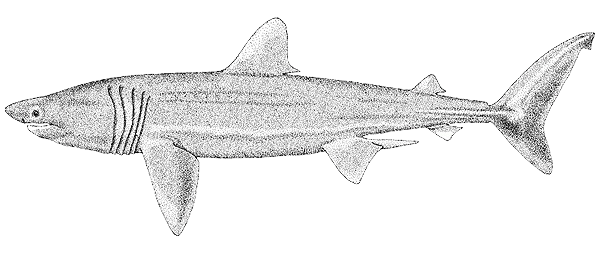
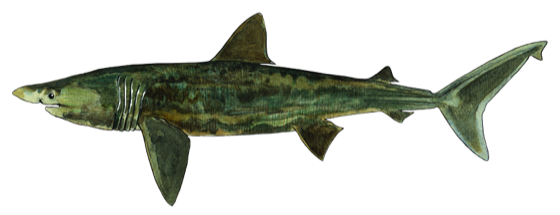
Added species images

diff --git a/sharks-client/app/scripts/services.js b/sharks-client/app/scripts/services.js
@@ -157,20 +157,16 @@ services.factory("imagesservice", [function() {
 		};
 		
 		this.missingThumbImageUrl = "images/species/missing-thumb.png";
-		this.speciesMissingSmallImageUrl = "images/species/missing-small.gif";
-		this.speciesMissingMediumImageUrl = "images/species/missing-medium.gif";
-		this.groupMissingMediumImageUrl = "images/species/missing-medium.gif";
-		
-		this.speciesSmallImageUrl = function(species) {
-		  return "images/species/"+self.cleanName(species.scientificName)+"-drawing-small.gif";  
-		};
+		this.missingMediumImageUrl = "images/species/missing-medium.png";
+		this.speciesMissingMediumImageUrl = "images/species/missing-medium.png";
+		this.groupMissingMediumImageUrl = "images/species/missing-medium.png";
 		
 		this.speciesMediumImageUrl = function(species) {
 			return "images/species/"+self.cleanName(species.scientificName)+"-drawing-medium.png"; 
 		};
 		
 		this.speciesThumbImageUrl = function(species) {
-			return "images/species/"+self.cleanName(species.scientificName)+"-drawing-thumb.png"; 
+			return "images/species/"+self.cleanName(species.scientificName)+"-drawing-small.jpg"; 
 		};
 		
 		this.groupMediumImageUrl = function(group) {

diff --git a/sharks-client/app/scripts/controllers/species_selection.js b/sharks-client/app/scripts/controllers/species_selection.js
@@ -24,7 +24,7 @@ angular.module("sharksClient")
 	  this.footer = footer;
 	  this.showUrls = isHome;
 	  
-	  this.imgUrl = "images/TMP_SPECIES_SELECTOR.png";
+	  this.imgUrl = "";
 	  
 	  this.showSpecies = function(species) {
 		  routingservice.toSingle("species", species);
@@ -37,6 +37,7 @@ angular.module("sharksClient")
 	  this.hoverSpecies = function(species) {
 		this.title = species.englishName;
 		this.subTitle = species.scientificName;
+		this.imgUrl = imagesservice.speciesMediumImageUrl(species);
 	  };
 	  
 	  this.hoverGroup = function(group) {
@@ -46,6 +47,7 @@ angular.module("sharksClient")
 	  };
 	  
 	  this.missingThumbUrl = imagesservice.missingThumbImageUrl;
+	  this.missingImgUrl = imagesservice.missingMediumImageUrl;
 	  this.speciesThumbUrl = imagesservice.speciesThumbImageUrl;
 	  this.groupThumbUrl = imagesservice.groupThumbImageUrl;
   }]);

diff --git a/sharks-client/app/views/species_selection.html b/sharks-client/app/views/species_selection.html
@@ -1,7 +1,7 @@
 
 <section id="SpeciesSelector">
   <div id="sharksIllu">
-    <img ng-src="{{ctrl.imgUrl}}">
+    <img ng-src="{{ctrl.imgUrl}}" err-src="{{ctrl.missingImgUrl}}">
     <div id="sharksInfo">
       <h1>{{ctrl.title}}</h1>
       <h2>{{ctrl.subTitle}}</h2>
